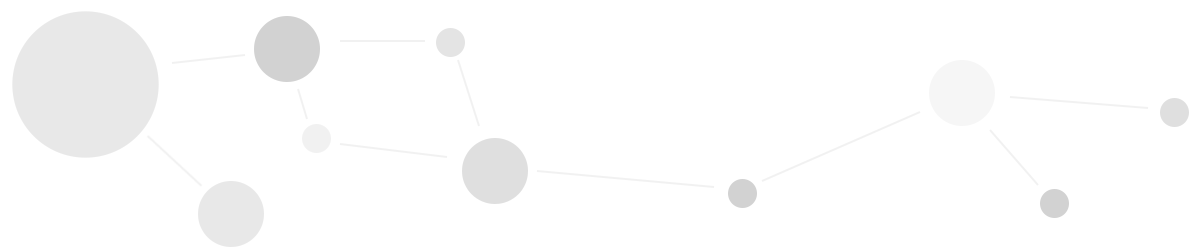
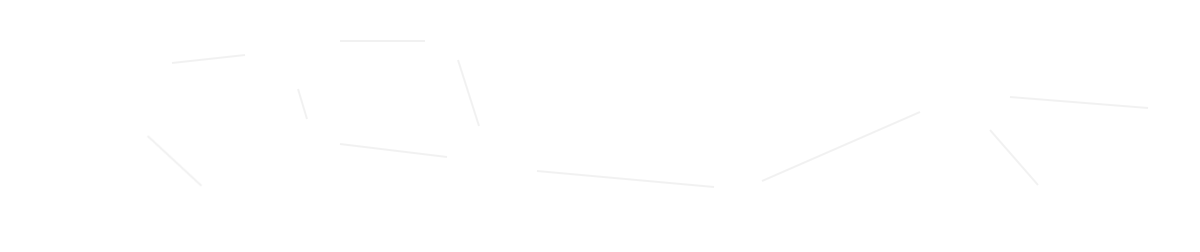
entrepreneurship header looking cool

diff --git a/app/assets/stylesheets/because.css.scss b/app/assets/stylesheets/because.css.scss
@@ -26,12 +26,12 @@
 	font-weight: 300;
 	font-size: 1em;
 	position: absolute;
-	top: 2em;
+	top: 1em;
 	left: 2em;
 
 	a {
 		text-decoration: none;
-		color: #666;
+		color: #999;
 		font-family: 'Source Sans Pro',sans-serif;
 		font-weight: 300;
 		font-size: 1em;
@@ -45,9 +45,9 @@
 		.box {
 			height: 3px;
 			width: 0;
-			background: #666;
+			background: #777;
 			margin-top: -.6em;
-			margin-bottom: 1.5em;
+			margin-bottom: .75em;
 			margin-left: -2.25em;
 			-webkit-transition: all .5s;
 	        -moz-transition: all .5s;
@@ -57,20 +57,23 @@
 	    }
 	}
 
-	a:hover {
+	.selected {
 		margin-left: -.5em;
-		
+		color: #222;
+
 		.box {
 			width: 1.5em;
 		}
 	}
 
-	.home:hover {
+	a:hover {
+		margin-left: -.5em;
+		color: #333;
+		
 		.box {
-			width: 100%;
+			width: 1.5em;
 		}
 	}
-
 }
 
 
@@ -668,18 +671,21 @@
 		background: #aaa;
 		z-index: -1;
 		position: absolute;
+		opacity: .2;
 	}
 
 	.biz2_circle {
 		background: #aaa;
 		z-index: -1;
 		position: absolute;
+		opacity: .4;
 	}	
 
 	.biz3_circle {
 		background: #aaa;
 		z-index: -1;
 		position: absolute;
+		opacity: .75;
 	}
 
 	.one {
@@ -726,17 +732,41 @@
 		width: 30px;
 		height: 30px;
 		border-radius: 30px;
-		left: 883px;
-		top: 160px;
+		left: 880px;
+		top: 155px;
 	}
 
 	.seven {
 		width: 60px;
 		height: 60px;
 		border-radius: 60px;
-		left: 622px;
-		top: 123px;
-	}		
+		left: 615px;
+		top: 120px;
+	}	
+
+	.eight {
+		width: 70px;
+		height: 70px;
+		border-radius: 70px;
+		left: 1085px;
+		top: 35px;
+	}
+
+	.nine {
+		width: 40px;
+		height: 40px;
+		border-radius: 40px;
+		left: 1315px;
+		top: 70px;
+	}	
+
+	.ten {
+		width: 30px;
+		height: 30px;
+		border-radius: 30px;
+		left: 1192px;
+		top: 167px;
+	}						
 }
 
 .ent_image {
